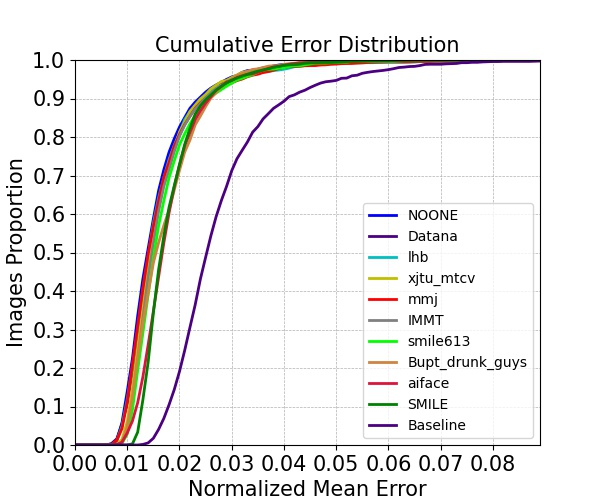
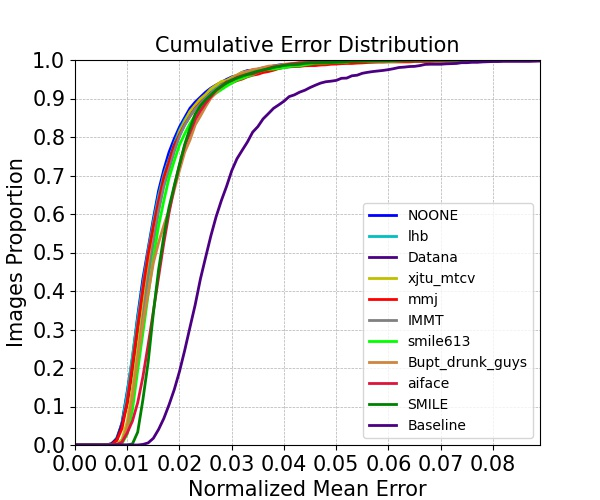
update leaderboard

diff --git a/leaderboard/index.html b/leaderboard/index.html
@@ -88,19 +88,19 @@
 </tr>
 <tr>
 <td align="center"> 2</td>
+<td align="center">lhb</td>
+<td align="center">-</td>
+<td align="center">80.10</td>
+<td align="center">0.05</td>
+<td align="center">1.59</td>
+</tr>
+<tr>
+<td align="center"> 3</td>
 <td align="center">Datana</td>
 <td align="center">Sertis</td>
 <td align="center">79.77</td>
 <td align="center">0.00</td>
 <td align="center">1.62</td>
-</tr>
-<tr>
-<td align="center"> 3</td>
-<td align="center">lhb</td>
-<td align="center">-</td>
-<td align="center">79.70</td>
-<td align="center">0.15</td>
-<td align="center">1.64</td>
 </tr>
 <tr>
 <td align="center"> 4</td>
